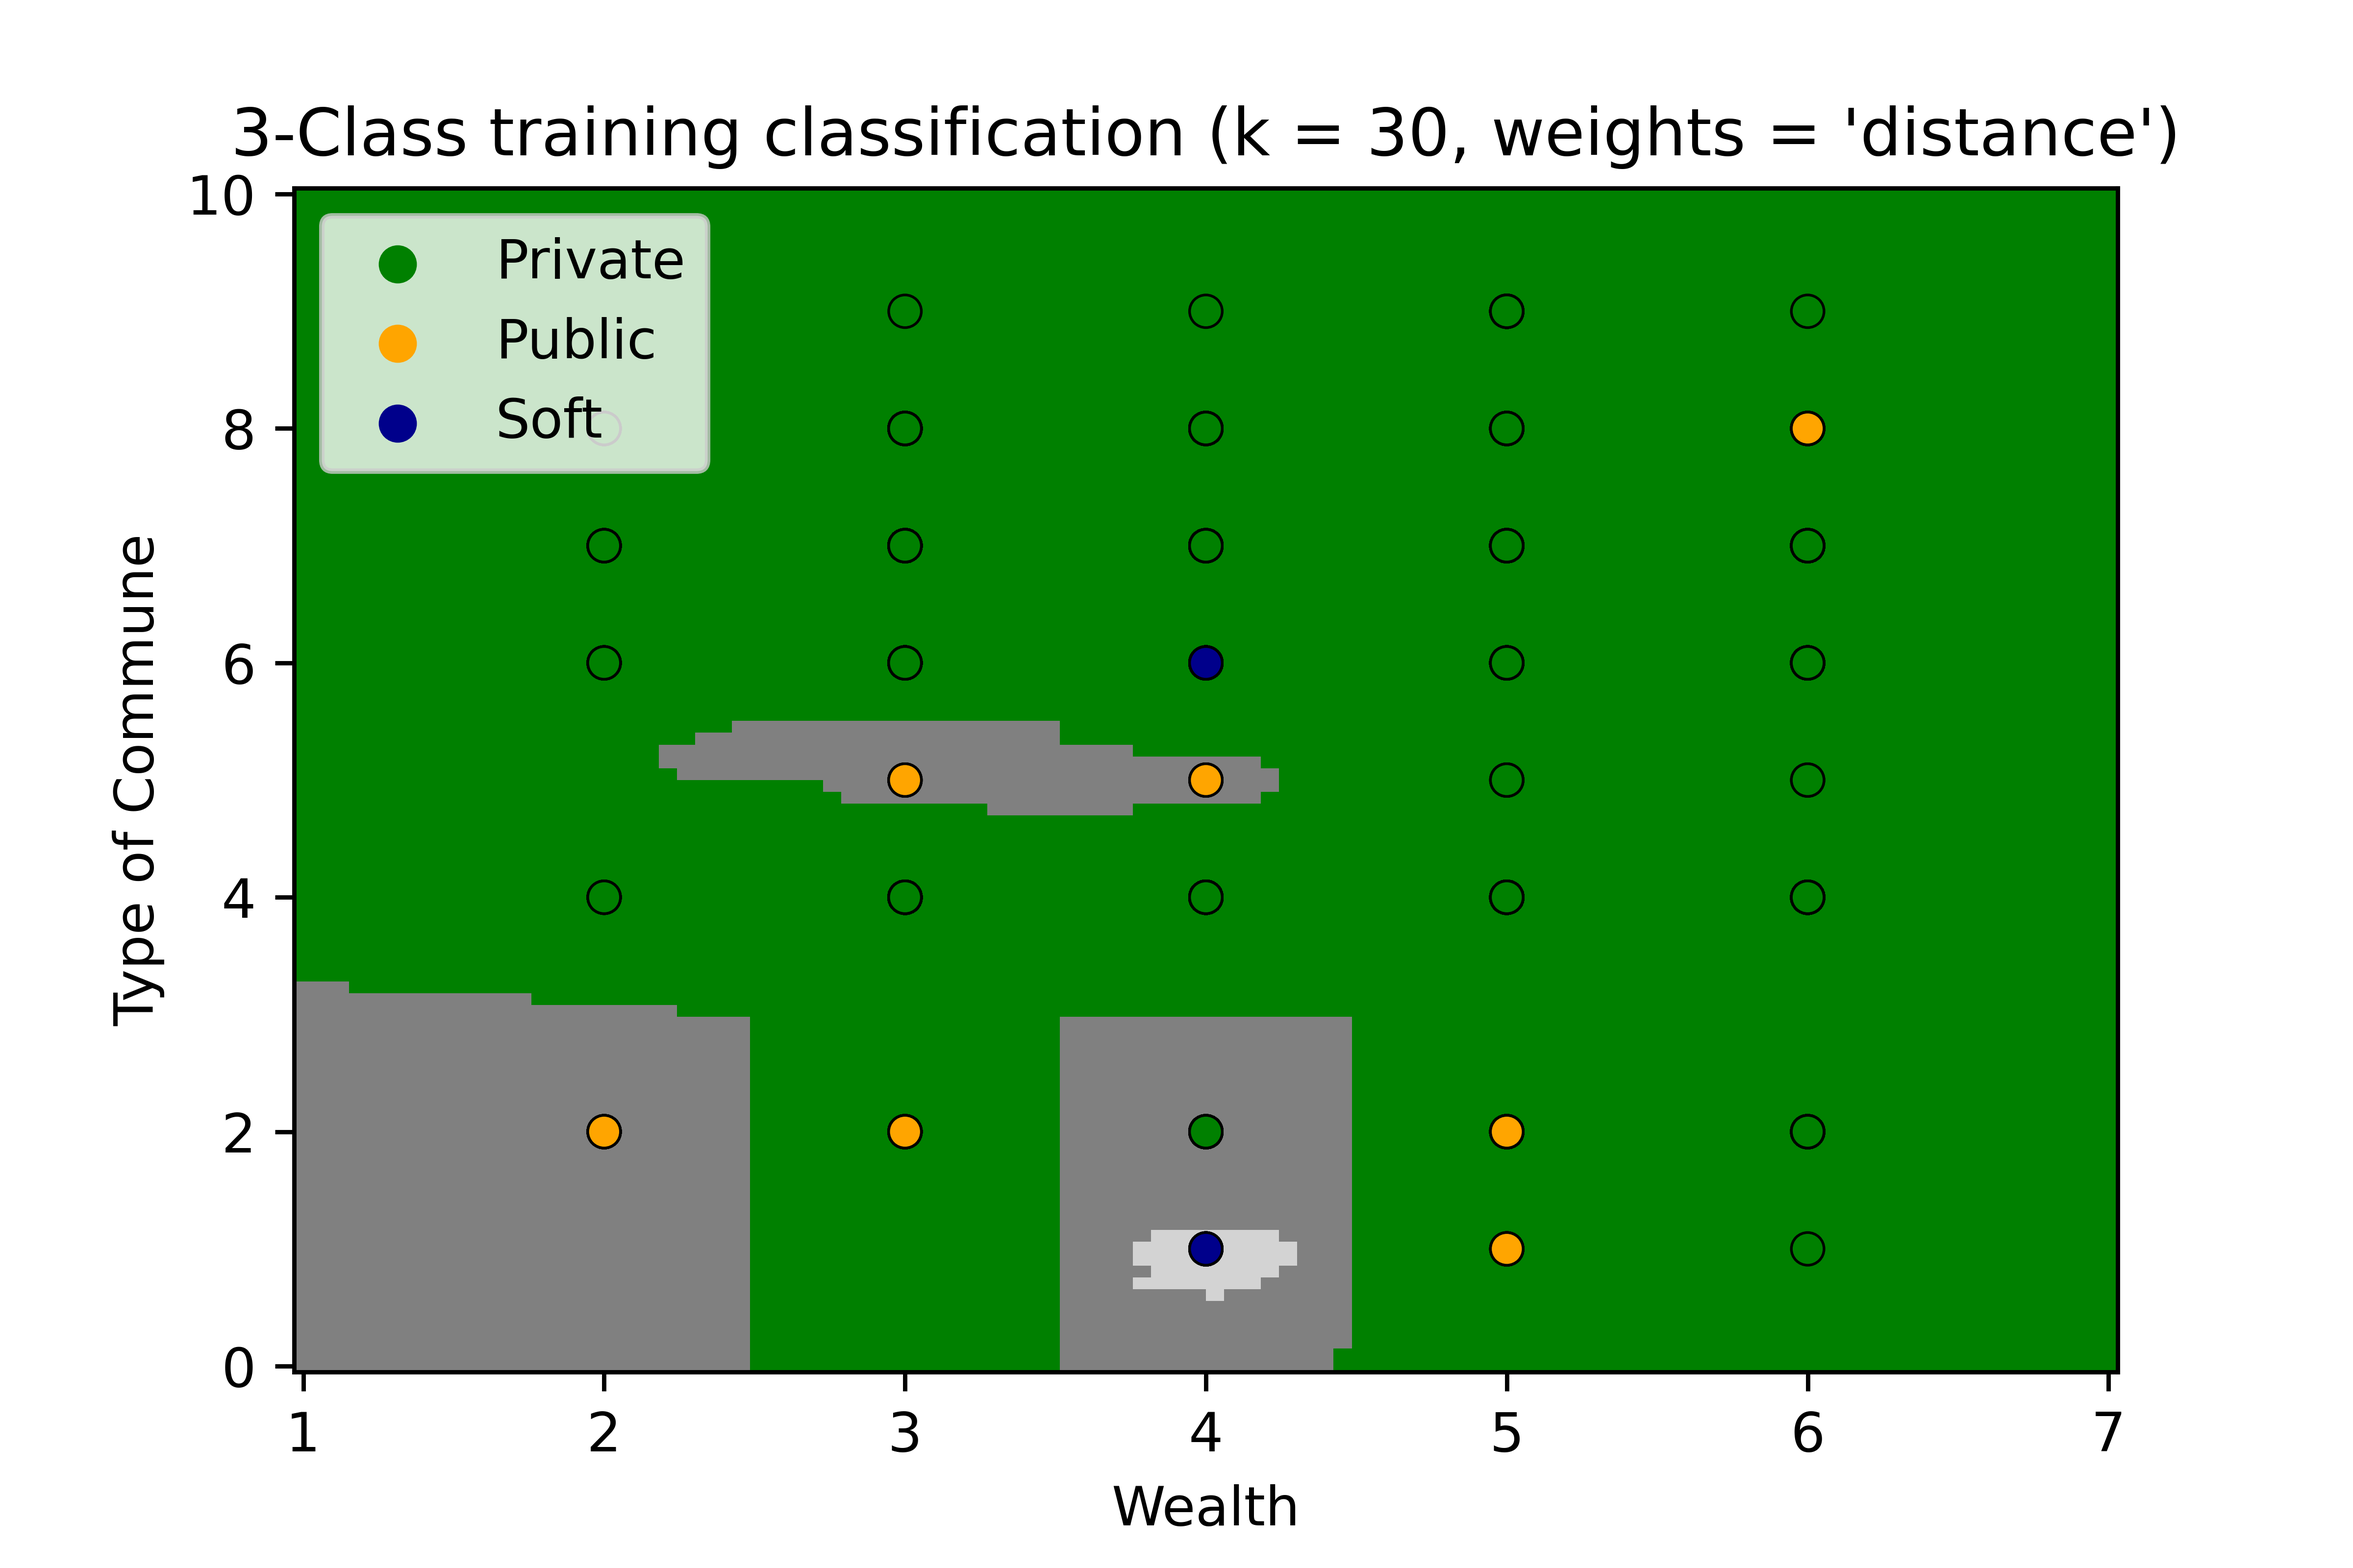
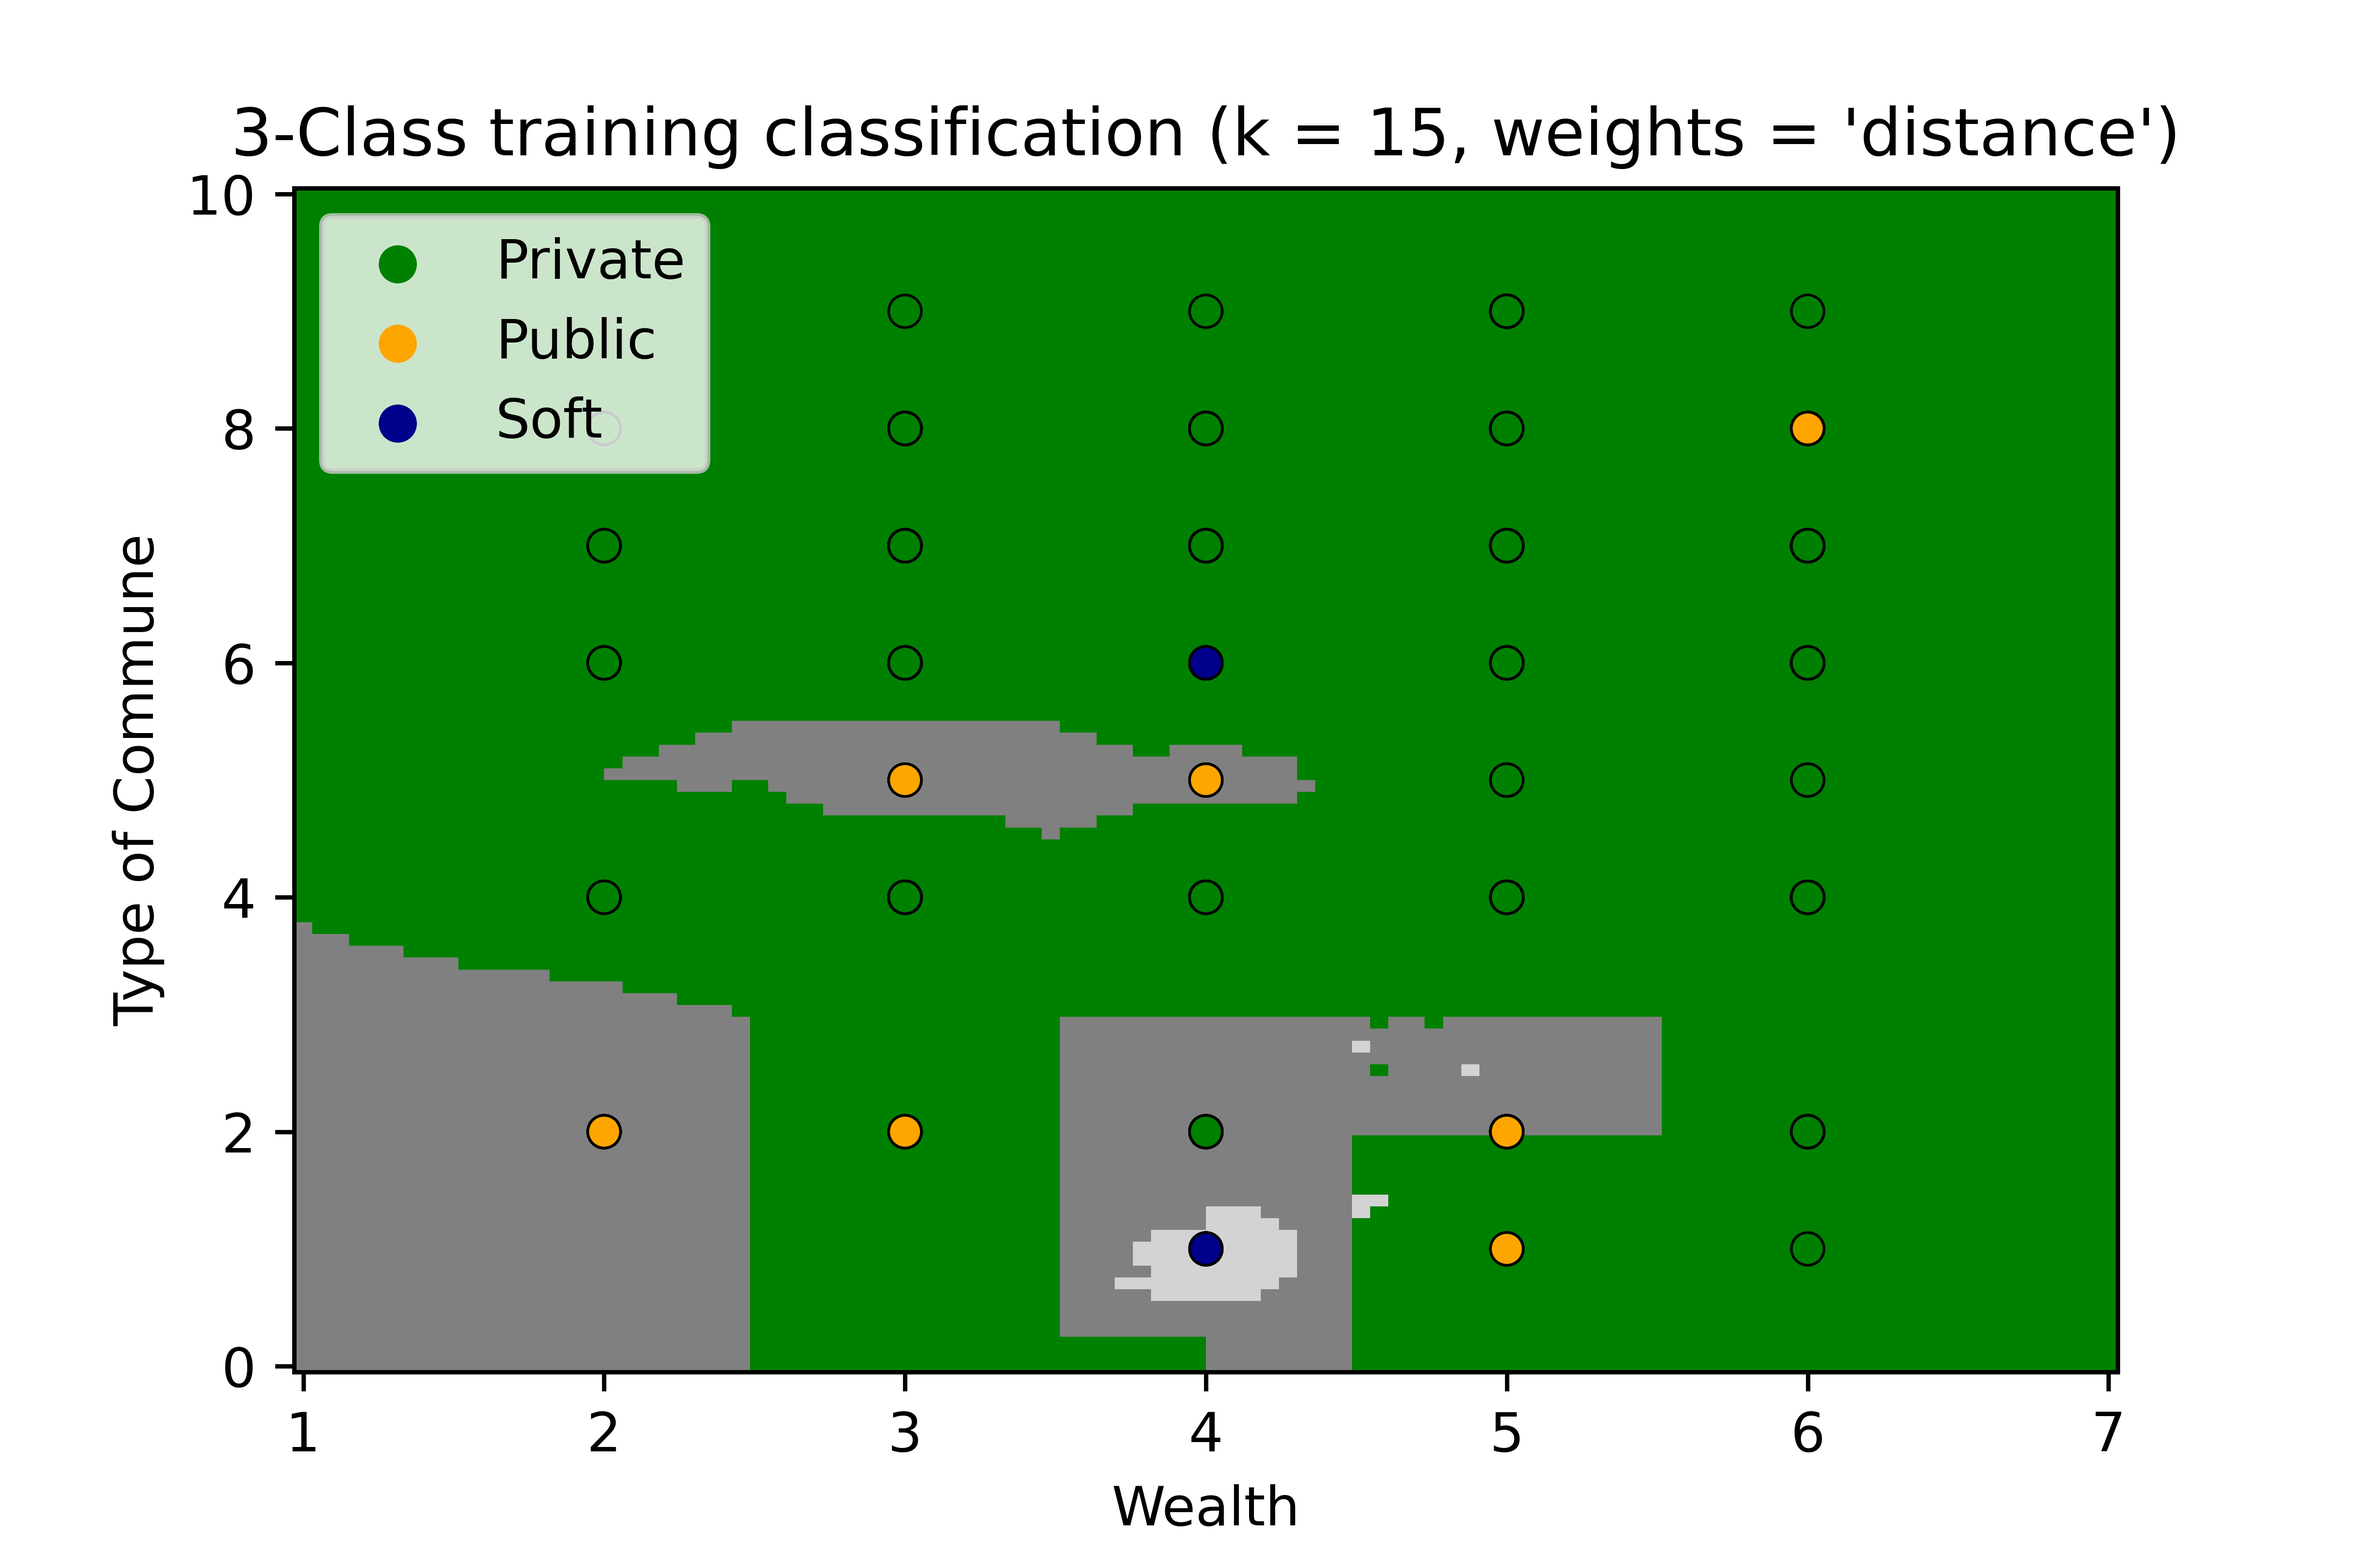
Plots

diff --git a/Subquestion_1.py b/Subquestion_1.py
@@ -1,5 +1,5 @@
 import pandas as pd
-from Data_Prep import df_final
+import Data_Prep
 import matplotlib.pyplot as plt
 from sklearn.model_selection import train_test_split
 from sklearn import neighbors, datasets
@@ -283,7 +283,7 @@ from sklearn.metrics import accuracy_score
 #%%
 
 # Importing final data_frame
-df_1 = df_final
+df_1 = Data_Prep.df_final
 
 #Splitting dataset into train, validation and test data
 df_train,df_test = train_test_split(df_1,test_size=0.3,random_state = 1)
@@ -291,15 +291,15 @@ df_train,df_test = train_test_split(df_1,test_size=0.3,random_state = 1)
 
 # ------------ STEP 3: Apply Maching Learning ------------
 #Multi-Clustering Code
-n_neighbors = 30
+n_neighbors = 15
 
 # # we only take the first two features. We could avoid this ugly
 # # slicing by using a two-dim dataset
 
-X_train = df_train[['Income','TC']].to_numpy()
+X_train = df_train[['HighincomeH','TC']].to_numpy()
 Y_train = df_train['PM'].to_numpy()
 
-X_test = df_test[['Income','TC']].to_numpy()
+X_test = df_test[['HighincomeH','TC']].to_numpy()
 Y_test = df_test['PM'].to_numpy()
 
 # Create color maps
@@ -345,51 +345,57 @@ for weights in ["uniform", "distance"]:
 cmap_light = ListedColormap(["grey", "green", "lightgrey"])
 cmap_bold = ["green", "orange", "darkblue"]
 
-for weights in ["uniform", "distance"]:
-    # we create an instance of Neighbours Classifier and fit the data.
-    clf = neighbors.KNeighborsClassifier(n_neighbors, weights=weights)
-    clf.fit(X_train, Y_train)
-
-    _, ax = plt.subplots()
-    DecisionBoundaryDisplay.from_estimator(
-        clf,
-        X_train,
-        cmap=cmap_light,
-        ax=ax,
-        response_method="predict",
-        plot_method="pcolormesh",
-        xlabel='Wealth',
-        ylabel='Type of Commune',
-        shading="auto",
-    )
-
-    # Plot also the training points
-    sns.scatterplot(
-        x=X_train[:, 0],
-        y=X_train[:, 1],
-        hue=df_train['Label'].to_numpy(),
-        palette=cmap_bold,
-        alpha=1.0,
-        edgecolor="black",)
+acc = []
+k_val = list(range(1,25))
+for k in k_val:
+    for weights in ["uniform", "distance"]:
+        # we create an instance of Neighbours Classifier and fit the data.
+        clf = neighbors.KNeighborsClassifier(k, weights=weights)
+        clf.fit(X_train, Y_train)
     
-    # # Create the 3D plot
-    # fig = plt.figure()
-    # ax = fig.add_subplot(111, projection='3d')
-    # x=X_train[:, 0],
-    # y=X_train[:, 1],
-    # z=X_train[:, 2],
-    # ax.scatter(x, y, z)
-
-    plt.title(
-        "3-Class training classification (k = %i, weights = '%s')" % (n_neighbors, weights)
-    )
+        _, ax = plt.subplots()
+        DecisionBoundaryDisplay.from_estimator(
+            clf,
+            X_train,
+            cmap=cmap_light,
+            ax=ax,
+            response_method="predict",
+            plot_method="pcolormesh",
+            xlabel='Wealth',
+            ylabel='Type of Commune',
+            shading="auto",
+        )
     
-    plt.savefig(("q1_train (weights = '%s')" % (weights)), dpi=800)
-    plt.show()
+        # Plot also the training points
+        sns.scatterplot(
+            x=X_train[:, 0],
+            y=X_train[:, 1],
+            hue=df_train['Label'].to_numpy(),
+            palette=cmap_bold,
+            alpha=1.0,
+            edgecolor="black",)
+        
+        # # Create the 3D plot
+        # fig = plt.figure()
+        # ax = fig.add_subplot(111, projection='3d')
+        # x=X_train[:, 0],
+        # y=X_train[:, 1],
+        # z=X_train[:, 2],
+        # ax.scatter(x, y, z)
     
-y_pred = clf.predict(X_test)
-accuracy = accuracy_score(Y_test, y_pred)
-print("Accuracy:", accuracy)
+        plt.title(
+            "3-Class training classification (k = %i, weights = '%s')" % (n_neighbors, weights)
+        )
+        
+        plt.savefig(("q1_train (weights = '%s')" % (weights)), dpi=800)
+        plt.show()
+        
+    y_pred = clf.predict(X_test)
+    accuracy = accuracy_score(Y_test, y_pred)
+    acc.append(accuracy)
+    print("Accuracy:", accuracy)
 
 
 # ------------ STEP 4: Result Analysis ------------
+  
+Data_Prep.acc_plot(k_val,acc,"Accuracy of the testing data the defined model as a funciton of K","Q1_acc")

diff --git a/Subquestion_2.py b/Subquestion_2.py
@@ -112,7 +112,7 @@ import seaborn as sns
 
 df_2 = Data_Prep.df_final
 
-n_neighbors = 10
+n_neighbors = 15
 
 #splitting dataset into train, validation and test data
 #X_train,X_test,Y_train,Y_test = train_test_split(X,y,test_size=0.3,random_state = 1)
@@ -136,40 +136,47 @@ Y_test = df_test['PM'].to_numpy()
 cmap_light = ListedColormap(["grey", "green", "lightgrey"])
 cmap_bold = ["green", "orange", "darkblue"]
 
-for weights in ["uniform", "distance"]:
-    # we create an instance of Neighbours Classifier and fit the data.
-    clf = neighbors.KNeighborsClassifier(n_neighbors, weights=weights)
-    clf.fit(X_train, Y_train)
-
-    _, ax = plt.subplots()
-    DecisionBoundaryDisplay.from_estimator(
-        clf,
-        X_train,
-        cmap=cmap_light,
-        ax=ax,
-        response_method="predict",
-        plot_method="pcolormesh",
-        xlabel='Income Classes',
-        ylabel='Social Professional Categories',
-        shading="auto",
-    )
-
-    # Plot also the training points
-    sns.scatterplot(
-        x=X_train[:, 0],
-        y=X_train[:, 1],
-        hue=df_train['Label'].to_numpy(),
-        palette=cmap_bold,
-        alpha=1.0,
-        edgecolor="black",
-    )
-    plt.title(
-        "3-Class training classification (k = %i, weights = '%s')" % (n_neighbors, weights)
-    )
+acc = []
+k_val = list(range(1,25))
+for k in k_val:
+    for weights in ["uniform", "distance"]:
+        # we create an instance of Neighbours Classifier and fit the data.
+        clf = neighbors.KNeighborsClassifier(k, weights=weights)
+        clf.fit(X_train, Y_train)
     
-    plt.savefig(("q2_train (weights = '%s')" % (weights)), dpi=800)
-    plt.show()
+        _, ax = plt.subplots()
+        DecisionBoundaryDisplay.from_estimator(
+            clf,
+            X_train,
+            cmap=cmap_light,
+            ax=ax,
+            response_method="predict",
+            plot_method="pcolormesh",
+            xlabel='Income Classes',
+            ylabel='Social Professional Categories',
+            shading="auto",
+        )
     
-y_pred = clf.predict(X_test)
-accuracy = accuracy_score(Y_test, y_pred)
-print("Accuracy:", accuracy)
+        # Plot also the training points
+        sns.scatterplot(
+            x=X_train[:, 0],
+            y=X_train[:, 1],
+            hue=df_train['Label'].to_numpy(),
+            palette=cmap_bold,
+            alpha=1.0,
+            edgecolor="black",
+        )
+        plt.title(
+            "3-Class training classification (k = %i, weights = '%s')" % (n_neighbors, weights)
+        )
+        
+        plt.savefig(("q2_train (weights = '%s')" % (weights)), dpi=800)
+        plt.show()
+        
+    y_pred = clf.predict(X_test)
+    accuracy = accuracy_score(Y_test, y_pred)
+    acc.append(accuracy)
+    print("Accuracy:", accuracy)
+
+    
+Data_Prep.acc_plot(k_val,acc,"Accuracy of the testing data the defined model as a funciton of K","Q2_acc")
